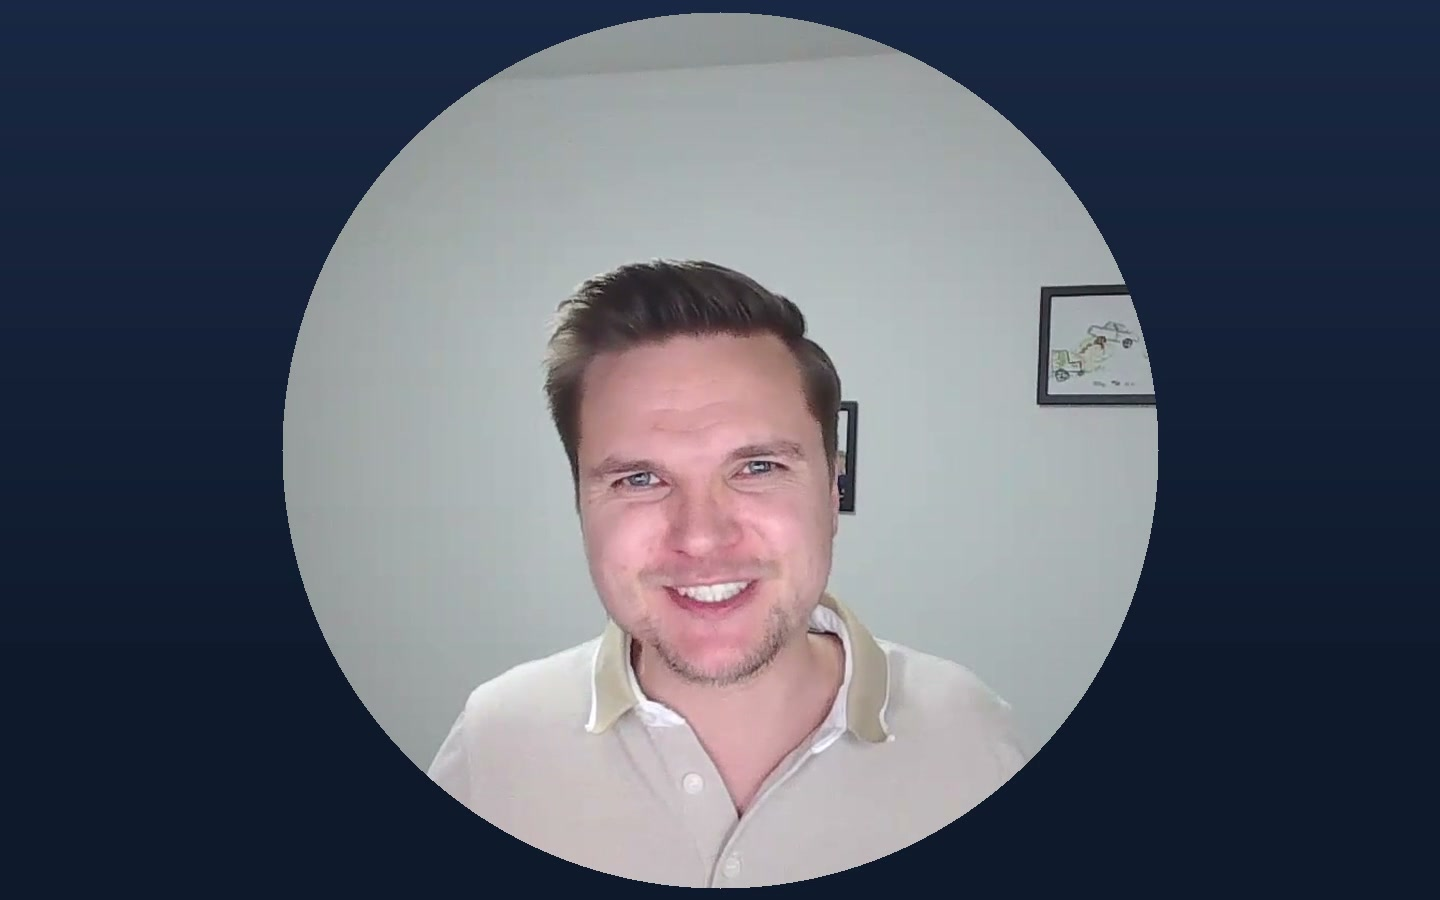
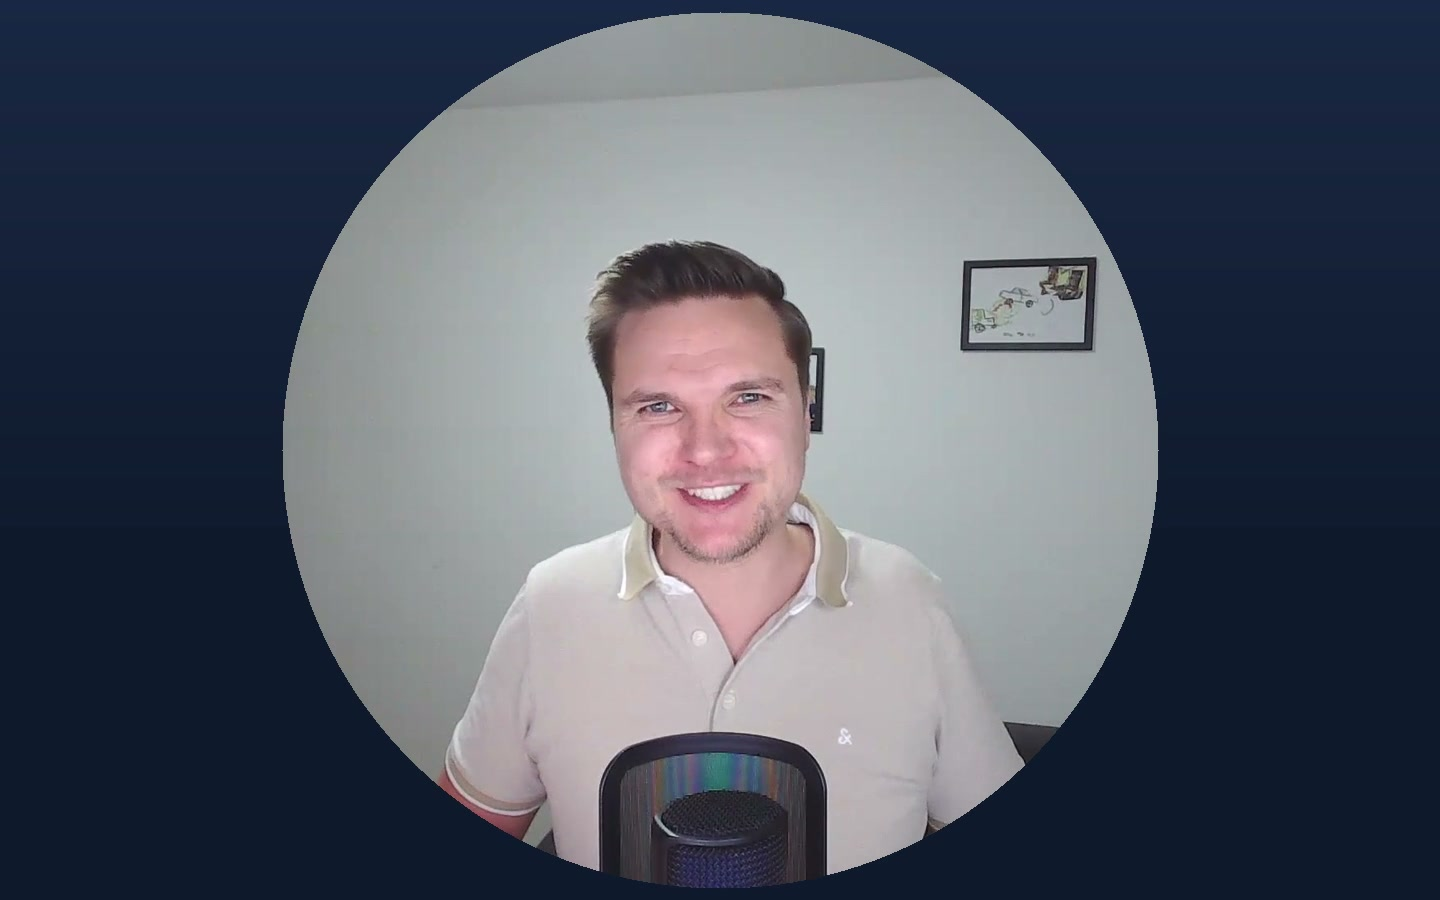
feat(proof): Finetune — Foto Augen höher, T1 Original-Zoom, T2 Handy-Layout (#553)
Founder-Feedback 05.06. (Derivate, approved Pipeline unberührt):
- Mail-Foto: Augen leicht über Mitte, mehr Körper, Mikro raus (EMAIL_A-Crop).
- T1 face-only: Original-Framing (1080er Center-Crop) statt 820 → Hand-Gestik/
  Finger-Zählen wieder sichtbar (war zu nah herangezoomt).
- T2 Handy-Hochformat: Handy links bündig (670 breit), Loom rechts DANEBEN
  + ~30% grösser (150) → mehr von der Person/Situation sichtbar (FB31).
- ProofClient: t2_portrait-Aspect 670/900. Poster aus neuem T1.

diff --git a/src/web/app/p/[token]/ProofClient.tsx b/src/web/app/p/[token]/ProofClient.tsx
@@ -168,12 +168,12 @@ export default function ProofClient({
           <Player libraryId={libraryId} guid={videos.t2} title={`${companyName} — Der Anruf`} />
         </div>
         {videos.t2_portrait && (
-          <div className="mx-auto max-w-[460px] sm:hidden">
+          <div className="mx-auto max-w-[560px] sm:hidden">
             <Player
               libraryId={libraryId}
               guid={videos.t2_portrait}
               title={`${companyName} — Der Anruf`}
-              aspect="520 / 900"
+              aspect="670 / 900"
             />
           </div>
         )}